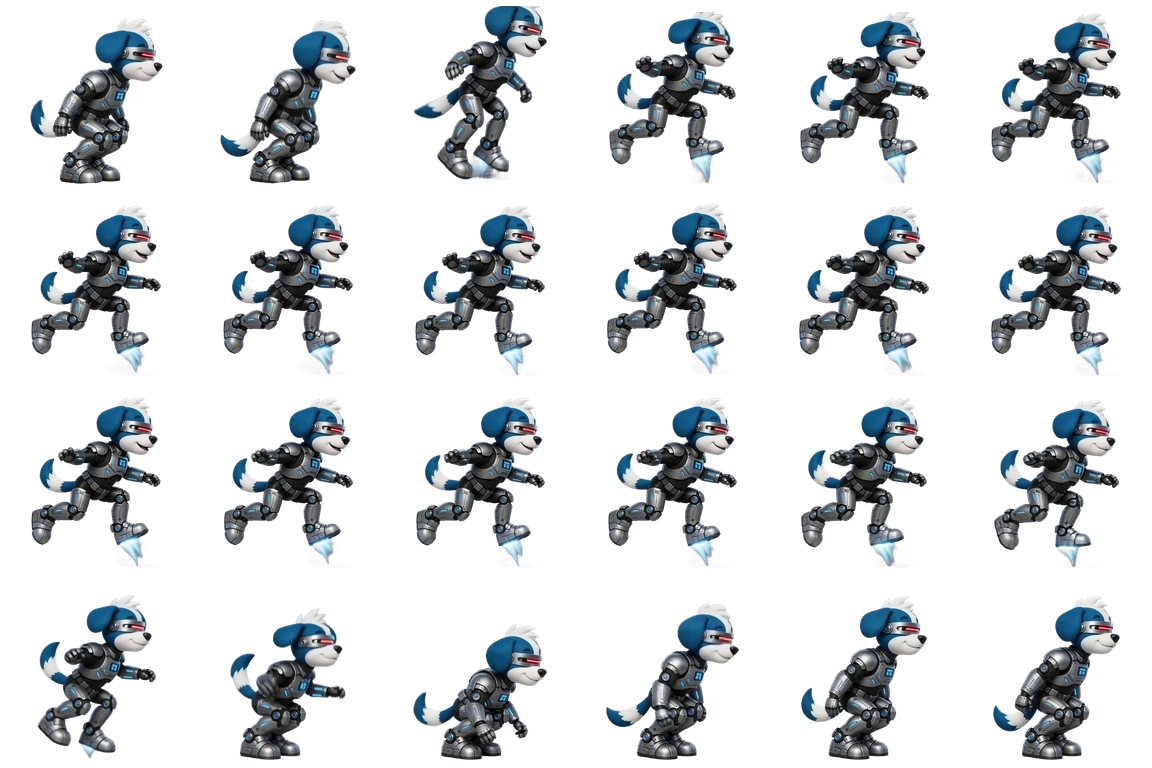
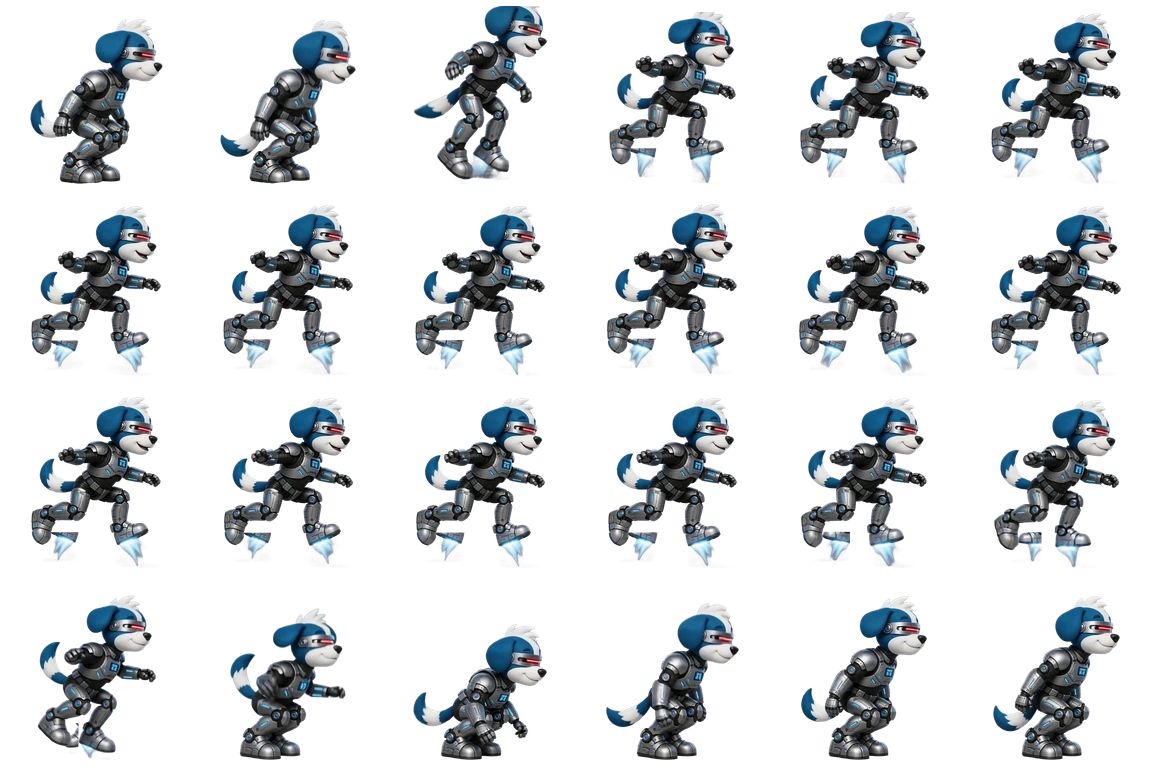
fix: embed Cyberfred dual boot boosters

diff --git a/src/components/fredrun-view.tsx b/src/components/fredrun-view.tsx
@@ -124,31 +124,6 @@ type CharacterSpriteLayout = {
   fps: number;
 };
 
-type CyberfredBoosterAnchor = {
-  x: number;
-  y: number;
-  angle: number;
-};
-
-const CYBERFRED_LEFT_BOOSTER_ANCHORS: Readonly<Record<number, CyberfredBoosterAnchor>> = {
-  3: { x: 73, y: 164, angle: -0.05 },
-  4: { x: 58, y: 153, angle: -0.08 },
-  5: { x: 56, y: 151, angle: -0.08 },
-  6: { x: 55, y: 151, angle: -0.08 },
-  7: { x: 55, y: 151, angle: -0.08 },
-  8: { x: 55, y: 151, angle: -0.08 },
-  9: { x: 55, y: 151, angle: -0.08 },
-  10: { x: 55, y: 151, angle: -0.08 },
-  11: { x: 55, y: 151, angle: -0.08 },
-  12: { x: 55, y: 151, angle: -0.08 },
-  13: { x: 55, y: 151, angle: -0.08 },
-  14: { x: 56, y: 152, angle: -0.08 },
-  15: { x: 57, y: 153, angle: -0.08 },
-  16: { x: 59, y: 154, angle: -0.08 },
-  17: { x: 62, y: 156, angle: -0.07 },
-  18: { x: 68, y: 160, angle: -0.06 },
-};
-
 const characterSpriteLayouts: Record<FredRunCharacterId, Record<SpriteKey, CharacterSpriteLayout>> = {
   fred: {
     walk: { source: "/fredrun/walk.png?v=smooth-walk-1", columns: 8, frameCount: 64, fps: 18 },
@@ -167,7 +142,7 @@ const characterSpriteLayouts: Record<FredRunCharacterId, Record<SpriteKey, Chara
   },
   cyberfred: {
     walk: { source: "/fredrun/cyberfred/walk.webp", columns: 8, frameCount: 64, fps: 16 },
-    jump: { source: "/fredrun/cyberfred/jump.webp?v=dual-boosters-v6", columns: 6, frameCount: 24, fps: 24 },
+    jump: { source: "/fredrun/cyberfred/jump.webp?v=embedded-dual-boosters-v7", columns: 6, frameCount: 24, fps: 24 },
     victory: { source: "/fredrun/cyberfred/victory.webp?v=robot-dance-v2", columns: 8, frameCount: 64, fps: 16 },
   },
 };
@@ -1374,56 +1349,6 @@ function drawHitFeedback(
   context.restore();
 }
 
-function drawCyberfredLeftJumpBooster(
-  context: CanvasRenderingContext2D,
-  state: FredRunState,
-  spriteFrame: number,
-  reducedMotion: boolean,
-) {
-  if (state.grounded) return;
-  const anchor = CYBERFRED_LEFT_BOOSTER_ANCHORS[spriteFrame];
-  if (!anchor) return;
-
-  const spriteLeft = FREDRUN_PLAYER_X - SPRITE_DRAW_SIZE / 2;
-  const spriteTop = FREDRUN_GROUND_Y - state.playerHeight + 4 - SPRITE_DRAW_SIZE;
-  const spriteScale = SPRITE_DRAW_SIZE / SPRITE_CELL_SIZE;
-  const pulse = reducedMotion ? 0 : Math.sin(state.elapsed * 48) * 1.5;
-  const flameLength = 21 + pulse;
-
-  context.save();
-  context.globalCompositeOperation = "lighter";
-  context.translate(
-    spriteLeft + anchor.x * spriteScale,
-    spriteTop + anchor.y * spriteScale,
-  );
-  context.rotate(anchor.angle);
-  context.shadowColor = "rgba(26, 181, 255, 0.9)";
-  context.shadowBlur = 9;
-
-  const outerFlame = context.createLinearGradient(0, 0, 0, flameLength);
-  outerFlame.addColorStop(0, "rgba(236, 255, 255, 0.98)");
-  outerFlame.addColorStop(0.32, "rgba(105, 224, 255, 0.94)");
-  outerFlame.addColorStop(0.72, "rgba(24, 138, 255, 0.72)");
-  outerFlame.addColorStop(1, "rgba(9, 91, 255, 0)");
-  context.fillStyle = outerFlame;
-  context.beginPath();
-  context.moveTo(-4.5, 0);
-  context.quadraticCurveTo(-7, flameLength * 0.48, -3.5, flameLength);
-  context.quadraticCurveTo(3, flameLength * 0.56, 4.5, 0);
-  context.closePath();
-  context.fill();
-
-  context.shadowBlur = 3;
-  context.fillStyle = "rgba(245, 255, 255, 0.9)";
-  context.beginPath();
-  context.moveTo(-1.8, 1);
-  context.quadraticCurveTo(-3, flameLength * 0.32, -1.2, flameLength * 0.58);
-  context.quadraticCurveTo(2, flameLength * 0.34, 1.8, 1);
-  context.closePath();
-  context.fill();
-  context.restore();
-}
-
 function activeSprite(
   state: FredRunState,
   layouts: Record<SpriteKey, CharacterSpriteLayout>,
@@ -1485,9 +1410,6 @@ function renderFredRun(
     drawPlayerPowerEffects(context, state, reducedMotion);
     const layouts = characterSpriteLayouts[characterId];
     const sprite = activeSprite(state, layouts);
-    if (characterId === "cyberfred" && sprite.key === "jump") {
-      drawCyberfredLeftJumpBooster(context, state, sprite.frame, reducedMotion);
-    }
     const layout = layouts[sprite.key];
     const sourceX = (sprite.frame % layout.columns) * SPRITE_CELL_SIZE;
     const sourceY = Math.floor(sprite.frame / layout.columns) * SPRITE_CELL_SIZE;

diff --git a/src/lib/fredrun-ui.test.ts b/src/lib/fredrun-ui.test.ts
@@ -2,6 +2,7 @@ import { createHash } from "node:crypto";
 import { readFileSync, statSync } from "node:fs";
 import { fileURLToPath } from "node:url";
 
+import sharp from "sharp";
 import { describe, expect, it } from "vitest";
 
 import { fredRunEnvironmentForDistance } from "./fredrun";
@@ -668,7 +669,7 @@ describe("Fredrun UI surface", () => {
     ), 0);
     expect(totalBytes).toBeLessThanOrEqual(3 * 1024 * 1024);
     expect(viewSource).toContain('walk: { source: "/fredrun/cyberfred/walk.webp", columns: 8, frameCount: 64, fps: 16 }');
-    expect(viewSource).toContain('jump: { source: "/fredrun/cyberfred/jump.webp?v=dual-boosters-v6", columns: 6, frameCount: 24, fps: 24 }');
+    expect(viewSource).toContain('jump: { source: "/fredrun/cyberfred/jump.webp?v=embedded-dual-boosters-v7", columns: 6, frameCount: 24, fps: 24 }');
     expect(viewSource).toContain('victory: { source: "/fredrun/cyberfred/victory.webp?v=robot-dance-v2", columns: 8, frameCount: 64, fps: 16 }');
     expect(cyberfredManifest.atlas.animations.jump).toMatchObject({
       sourceKind: "provided-spritesheet",
@@ -682,7 +683,7 @@ describe("Fredrun UI surface", () => {
       frameCount: 24,
       animationName: "Blue Booster Jump",
       facingDirection: "right",
-      runtimeEffect: "embedded-right-plus-frame-anchored-left-blue-boot-thrusters",
+      runtimeEffect: "embedded-dual-original-blue-boot-thrusters",
     });
     expect(cyberfredManifest.atlas.animations.jump.runtimePlayback).toEqual({
       mode: "full-atlas-synced-to-fredrun-physics",
@@ -694,11 +695,45 @@ describe("Fredrun UI surface", () => {
       danceStyle: "classic-robot-dance",
       loop: true,
     });
-    expect(viewSource).toContain("function drawCyberfredLeftJumpBooster");
-    expect(viewSource).toContain("CYBERFRED_LEFT_BOOSTER_ANCHORS[spriteFrame]");
+    expect(viewSource).not.toContain("drawCyberfredLeftJumpBooster");
+    expect(viewSource).not.toContain("CYBERFRED_LEFT_BOOSTER_ANCHORS");
     expect(profileSource).toContain('export const FREDRUN_CYBERFRED_PRICE = 2_000;');
     expect(profileSource).toContain('name: "Cyberfred"');
     expect(profileSource).toContain('price: FREDRUN_CYBERFRED_PRICE');
+  });
+
+  it("embeds an original blue booster beneath both Cyberfred boots during flight", async () => {
+    const jumpAtlasPath = fileURLToPath(new URL(
+      "../../public/fredrun/cyberfred/jump.webp",
+      import.meta.url,
+    ));
+    const flameZones = [
+      { left: 42, top: 142, width: 54, height: 48 },
+      { left: 98, top: 142, width: 58, height: 48 },
+    ];
+
+    for (let frame = 3; frame <= 17; frame += 1) {
+      for (const zone of flameZones) {
+        const { data, info } = await sharp(jumpAtlasPath)
+          .extract({
+            left: frame % 6 * 192 + zone.left,
+            top: Math.floor(frame / 6) * 192 + zone.top,
+            width: zone.width,
+            height: zone.height,
+          })
+          .ensureAlpha()
+          .raw()
+          .toBuffer({ resolveWithObject: true });
+        let blueFlamePixels = 0;
+        for (let pixel = 0; pixel < data.length; pixel += info.channels) {
+          const red = data[pixel];
+          const blue = data[pixel + 2];
+          const alpha = data[pixel + 3];
+          if (alpha > 30 && blue > 110 && blue > red + 12) blueFlamePixels += 1;
+        }
+        expect(blueFlamePixels, `Cyberfred frame ${frame} is missing a boot booster`).toBeGreaterThan(250);
+      }
+    }
   });
 
   it("lays out the game-over score on the left and the selected dancer on the right", () => {
